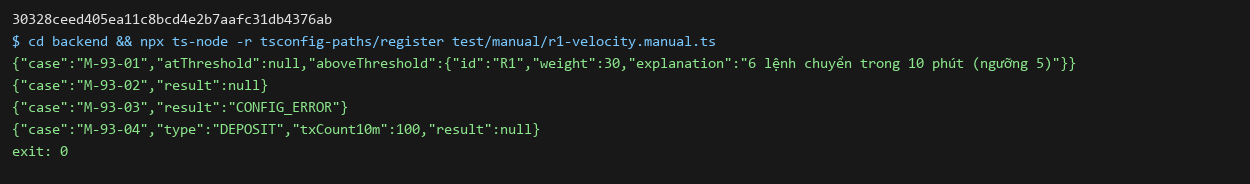
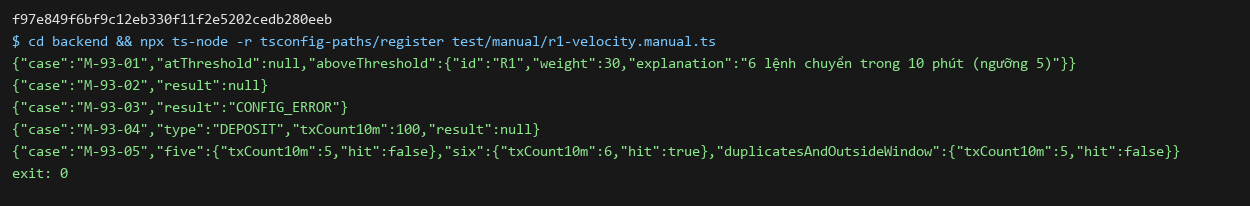
docs(risk): DBS-93 record the reference window count, rerun manual test and evidence
TC-93-05 split into 05a (reference count, done) and 05b (real provider, pending), M-93-05, the
second post-G4 note, manual-test.txt and the screenshot from the run on the last code commit.

Techlead waiver: change made on another Dev's branch on the techlead's instruction, no review by
another Dev.

Changed region(s): [[0.0, 0.163, 0.936, 0.7609], [0.0, 0.0543, 0.2808, 0.1359], [0.0, 0.788, 0.0624, 0.8696]]

diff --git a/docs/features/DBS-93-r1-velocity.md b/docs/features/DBS-93-r1-velocity.md
@@ -1,6 +1,6 @@
 # DBS-93 · Luật R1 velocity
 
-> **Status:** Implemented (R1 thuần; TC-93-05 còn chờ) · **Vai:** #4 Fraud · **Nhánh:** `feat/DBS-93-r1-velocity` · **PR:** [#87](https://github.com/Lawliet119/digital-banking-simulator/pull/87) · **Cập nhật:** 2026-11-08
+> **Status:** Implemented (R1 thuần + hàm đếm chuẩn; TC-93-05b còn chờ) · **Vai:** #4 Fraud · **Nhánh:** `feat/DBS-93-r1-velocity` · **PR:** [#87](https://github.com/Lawliet119/digital-banking-simulator/pull/87) · **Cập nhật:** 2026-11-08
 
 ## 1. Bối cảnh
 
@@ -76,7 +76,8 @@ Không có transaction hoặc gọi dịch vụ ngoài trong task này. Provider
 | TC-93-02 | DoD 1 | Unit | Tắt rule với count 6 → null; đổi maxTransfers và weight hợp lệ → ngưỡng/hit dùng cấu hình, không dùng hằng số v1 |
 | TC-93-03 | ADR-14 cấu hình nền và feature | Unit | Count không phải số nguyên an toàn dương; ngưỡng/weight sai kiểu hoặc ngoài miền; cửa sổ khác 10 phút → lỗi rõ ràng thay vì null/hit sai |
 | TC-93-04 | DoD 3 | Unit | Sự kiện `type: 'DEPOSIT'` lọt tới rule với count 6 hoặc 100 → `null`; `TRANSFER` cùng count vẫn có hit; `DEPOSIT` với count không hợp lệ (0) → `null`, không ném lỗi. Việc consumer lọc `DEPOSIT` do DBS-111 kiểm riêng |
-| TC-93-05 | DoD 2: cửa sổ và trùng | Tích hợp provider tương lai | DBS-109/128/112 chứng minh ngoài cửa sổ và trùng transferId trên nguồn feature thật; chưa thực hiện trong rule thuần |
+| TC-93-05a | DoD 2: cửa sổ và trùng | Unit | `countTransfersInWindow` (`features/velocity-count.ts`, hàm thuần định nghĩa nghĩa của `txCount10m`): cửa sổ `(occurredAt − 10 phút, occurredAt]`, cận dưới loại trừ; giao dịch đúng 10 phút trước và 11 phút trước không đếm; cùng `transferId` hai lần và việc giao lại chính lệnh hiện tại không đếm đôi; giao dịch sau `occurredAt` không đếm; đầu vào sai ném lỗi. Nối vào R1: 5 lệnh trong cửa sổ không cờ, lệnh thứ 6 có cờ, bản trùng và lệnh ngoài cửa sổ không đẩy qua ngưỡng |
+| TC-93-05b | DoD 2 trên nguồn thật | Tích hợp provider tương lai | DBS-109/128/112 chứng minh provider Redis/SQL/offline cho **cùng kết quả** với hàm chuẩn trên dữ liệu thật; chưa thực hiện |
 | TC-93-06 | DoD 4 | Quy trình | CI, Dev khác review và merge thực tế; không tính là đạt trước khi xảy ra |
 
 Không có `errorCode` HTTP hay thay đổi tiền/số dư trong rule thuần. Kiểm quyền endpoint, transaction và customer isolation thuộc task worker/API, không áp dụng vào rule độc lập.
@@ -95,8 +96,9 @@ npx ts-node -r tsconfig-paths/register test/manual/r1-velocity.manual.ts
 | M-93-02 | Tắt rule với count 6 | In null |
 | M-93-03 | Bật rule nhưng cấu hình cửa sổ 15 phút | In trạng thái lỗi rõ ràng, không tạo hit |
 | M-93-04 | Event `type: 'DEPOSIT'` với count 100 | In `null` |
+| M-93-05 | Đếm bằng `countTransfersInWindow`: 4 lệnh trong cửa sổ + lệnh hiện tại; thêm lệnh thứ 6; rồi thêm bản trùng, lệnh đúng 10 phút và 11 phút trước | `5 → hit=false`, `6 → hit=true`, `5 → hit=false` |
 
-Driver chỉ dùng dữ liệu tổng hợp trong bộ nhớ, không gọi OpenAI, không sửa DB hoặc ledger. Vì provider chưa tồn tại, script không chứng minh cửa sổ thực hay dedup; bằng chứng đó thuộc TC-93-05. M-93-04 chỉ chứng minh rule tự bỏ `DEPOSIT`, không chứng minh consumer lọc.
+Driver chỉ dùng dữ liệu tổng hợp trong bộ nhớ, không gọi OpenAI, không sửa DB hoặc ledger. Vì provider chưa tồn tại, M-93-05 chỉ chứng minh hàm đếm chuẩn và việc nối vào luật; chưa chứng minh Redis/SQL thật, đó là TC-93-05b. M-93-04 chỉ chứng minh rule tự bỏ `DEPOSIT`, không chứng minh consumer lọc.
 
 ## 6. Domain review
 
@@ -127,9 +129,9 @@ Reviewer độc lập `openai-codex/gpt-6.1-sol`: **0 blocking, 0 should-fix, 0 
 
 ## 8. Kết quả và bàn giao
 
-- Rule được commit ở `4651c3d`; commit cuối đổi driver kiểm thủ công là `290dd4e9443e0dd042dfa3bccc807ac1ff76c2b6` (giữ kiểm nội dung bắt buộc, không ghim câu chữ); commit code mới nhất là `30328ce` (guard `DEPOSIT`). Test trước implementation đỏ `TS2307` thiếu rule; sau implementation suite R1 đạt **21/21**; sau bổ sung DoD 3 (bên dưới) đạt **23/23**.
+- Rule được commit ở `4651c3d`; commit cuối đổi driver kiểm thủ công là `290dd4e9443e0dd042dfa3bccc807ac1ff76c2b6` (giữ kiểm nội dung bắt buộc, không ghim câu chữ); commit code mới nhất là `f97e849` (hàm đếm chuẩn, trên guard `DEPOSIT` ở `30328ce`). Test trước implementation đỏ `TS2307` thiếu rule; sau implementation suite R1 đạt **21/21**; sau hai bổ sung sau G4 (bên dưới) R1 đạt **23/23** và hàm đếm chuẩn **10/10**.
 - `lint:check`, `typecheck`, `build`: đạt. Unit toàn bộ: **70 suite, 1.150 test**; e2e: **15 suite, 153 test**; DB: **42 suite, 724 test** trên Docker project riêng; không có test bị skip trong output. E2e bắt đầu trước khi driver manual được chỉnh assertion, nhưng code rule không đổi; driver được chạy lại trên commit cuối.
-- M-93-01/02/03/04: đạt, chạy lại trên commit code cuối `30328ce`; [output thô](screenshots/DBS-93/manual-test.txt). Không có credential hoặc dữ liệu khách trong bằng chứng.
+- M-93-01..05: đạt, chạy lại trên commit code cuối `f97e849`; [output thô](screenshots/DBS-93/manual-test.txt). Không có credential hoặc dữ liệu khách trong bằng chứng.
 - Tự review code: đối chiếu ranh giới 5/6, rule tắt, ngưỡng/trọng số từ params, miền số nguyên và từ chối cửa sổ khác 10 phút; không có I/O trong `evaluate`. Review thiết kế độc lập ở §6 không thay thế Dev review PR.
 - Link: checker repo chạy với danh sách giới hạn 4 Markdown đã sửa, **4 file, 0 link lỗi**; kiểm riêng 173 link và anchor trong bốn file này cũng không thấy lỗi. Đây không phải kiểm toàn repo; không truy cập dataset niêm phong.
 - Đối chiếu phạm vi: diff code từ `origin/main` gồm đúng rule, unit spec và driver manual; tài liệu/evidence gồm các file đã liệt kê ở §7, không có thay đổi ledger/event/schema.
@@ -140,14 +142,17 @@ Reviewer độc lập `openai-codex/gpt-6.1-sol`: **0 blocking, 0 should-fix, 0 
 |---|---|
 | TC-93-01/02/03 | Đạt trên suite unit R1; kiểm so sánh ngưỡng, rule tắt, cấu hình, giá trị lỗi và explanation |
 | TC-93-04 | Đạt trên suite unit R1 (2 ca, đỏ trước khi thêm guard) và M-93-04. Phần consumer lọc `DEPOSIT` vẫn chưa có (DBS-111, BL-041) |
-| TC-93-05 | **Chưa kiểm cửa sổ và dedup bằng nguồn thật**: provider chưa triển khai; DBS-109/128/112, BL-041 |
+| TC-93-05a | Đạt: `velocity-count.spec.ts` 10/10 (ba đột biến: cận dưới đóng, bỏ cận trên, bỏ dedup, đều làm test đỏ) và M-93-05 |
+| TC-93-05b | **Chưa kiểm trên nguồn thật**: provider chưa triển khai; DBS-109/128/112, BL-041 |
 | TC-93-06 | CI remote, Dev khác review và merge chưa có; BL-183 |
 
 Không có bằng chứng fraud end-to-end, chất lượng phát hiện hay tích hợp OpenAI từ task R1. Các task còn lại của yêu cầu tổng thể và các phụ thuộc dữ liệu/Ops được giữ ở §1; không thay chúng bằng mock.
 
-**Bổ sung sau G4 (2026-11-08, techlead yêu cầu sửa mọi DoD sửa được):** thêm guard `type !== 'TRANSFER' → null` vào `R1VelocityRule` để đạt DoD 3, hai ca TC-93-04 viết trước (đỏ: 2 failed) rồi xanh, thêm M-93-04 vào driver và chạy lại cả bốn bước thủ công trên commit `30328ce`; unit toàn `src/modules/risk` 150/150, `lint:check`, `typecheck` đạt. Không đổi hợp đồng `RiskRule`, event, schema. DoD 2 (cửa sổ, dedup) không sửa được ở luật thuần: cần provider thật (TC-93-05). DoD 4 (Dev khác review) là quy trình, chưa đạt.
+**Bổ sung sau G4 (2026-11-08, techlead yêu cầu sửa mọi DoD sửa được):** thêm guard `type !== 'TRANSFER' → null` vào `R1VelocityRule` để đạt DoD 3, hai ca TC-93-04 viết trước (đỏ: 2 failed) rồi xanh, thêm M-93-04 vào driver và chạy lại cả bốn bước thủ công trên commit `30328ce`; unit toàn `src/modules/risk` 150/150, `lint:check`, `typecheck` đạt. Không đổi hợp đồng `RiskRule`, event, schema. DoD 2 (cửa sổ, dedup) không nằm trong luật nhận số đếm; xử lý ở bổ sung thứ hai bên dưới. DoD 4 (Dev khác review) là quy trình, chưa đạt.
 
-**Quyết định G4:** người dùng chọn “Duyệt G4”, chấp nhận nêu rõ TC-93-05 (cửa sổ/dedup qua provider thật; ban đầu cả TC-93-04 DEPOSIT runtime, đã đạt ở phần bổ sung trên) và việc chưa kiểm link toàn repo. PR chỉ bàn giao R1 thuần; các phần còn lại của yêu cầu fraud vẫn mở.
+**Bổ sung thứ hai sau G4 (cùng ngày, techlead hỏi vì sao DoD 2 không sửa được):** DoD 2 sửa được một phần. Thêm `features/velocity-count.ts` (`countTransfersInWindow`) định nghĩa chuẩn của số đếm: cửa sổ kết thúc ở `occurredAt`, cận dưới loại trừ, đếm theo `transferId` khác nhau, lệnh hiện tại đúng một lần. Test viết trước (đỏ `TS2307`), `src/modules/risk` 160/160, driver có thêm M-93-05, chạy lại 5 bước thủ công. **Hai lưu ý:** (1) đây là quyết định thiết kế mới: cận dưới loại trừ (đúng 10 phút trước thì ngoài cửa sổ) vì guide không nêu; nếu Redis `ZCOUNT` hay SQL của provider chọn khác thì sửa một nơi cho khớp. (2) Hàm chưa có nơi gọi trong production; nó là bản chuẩn để provider phải khớp (offline provider DBS-128 có thể dùng trực tiếp), không phải bằng chứng rằng Redis/SQL thật đếm đúng (TC-93-05b).
+
+**Quyết định G4:** người dùng chọn “Duyệt G4”, chấp nhận nêu rõ TC-93-05 (cửa sổ/dedup qua provider thật; ban đầu cả TC-93-04 DEPOSIT runtime và phần chuẩn của TC-93-05, đã đạt ở hai phần bổ sung trên) và việc chưa kiểm link toàn repo. PR chỉ bàn giao R1 thuần; các phần còn lại của yêu cầu fraud vẫn mở.
 
 ## 9. Tài liệu đã cập nhật
 
